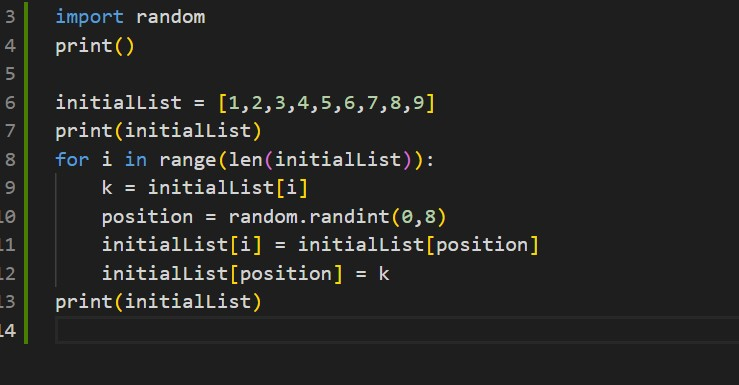
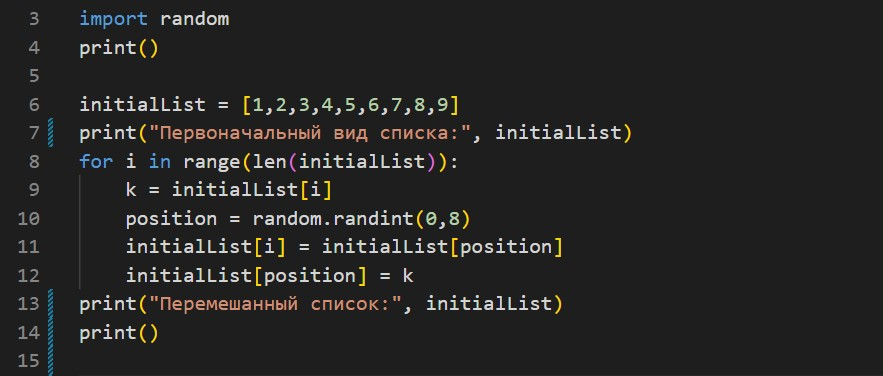
corrected z5+5.jpg

Changed region(s): [[0.0, 0.0, 0.747, 1.0]]

diff --git a/Homework/hw2/z5.py b/Homework/hw2/z5.py
@@ -4,10 +4,13 @@ import random
 print()
 
 initialList = [1,2,3,4,5,6,7,8,9]
-print(initialList)
+print("Первоначальный вид списка:", initialList)
 for i in range(len(initialList)):
     k = initialList[i]
     position = random.randint(0,8)
     initialList[i] = initialList[position]
     initialList[position] = k
-print(initialList)
+print("Перемешанный список:", initialList)
+print()
+
+
